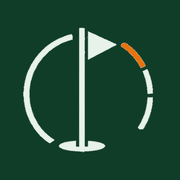
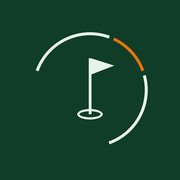
Fix report fold density, evidence honesty, hub sync copy, and PWA mark.
Tighten the mobile opening fold so long-copy cue stays in-viewport, stop
cropping theater video and inventing a common-miss claim, clarify hub sync
detail when already linked or storefront URL is missing, and align the PWA /
apple-touch mark with the Tour Caddie v3 flagstick.

Changed region(s): [[0.1111, 0.1389, 0.8611, 0.8611]]

diff --git a/store-assets/make_apple_touch_icon.py b/store-assets/make_apple_touch_icon.py
@@ -1,11 +1,10 @@
 """apple-touch-icon.png — the iOS home-screen mark.
 
-Reproduces swinglab/web/static/pwa-icon.svg with Pillow: the night turf
-field, the cool-mist ball-face circle, one orange swing-arc gesture, and
-the ball dot. iOS ignores SVG touch icons and rounds the corners itself,
-so this renders the mark full-bleed on an OPAQUE 180x180 canvas (no alpha,
-no pre-rounded corners). Drawn at supersample scale and downscaled for
-clean edges, like the other generators here.
+Tour Caddie v3: deep-forest tile with the flagstick + precision-arc mark in
+mint and one amber kinetic segment. iOS ignores SVG touch icons and rounds
+the corners itself, so this renders the mark full-bleed on an OPAQUE 180x180
+canvas (no alpha, no pre-rounded corners). Drawn at supersample scale and
+downscaled for clean edges.
 
 Writes straight into the app's static directory:
     python store-assets/make_apple_touch_icon.py
@@ -13,6 +12,7 @@ Writes straight into the app's static directory:
 
 from __future__ import annotations
 
+import math
 from pathlib import Path
 
 from PIL import Image, ImageDraw
@@ -20,50 +20,59 @@ from PIL import Image, ImageDraw
 HERE = Path(__file__).parent
 STATIC = HERE.parent / "swinglab" / "web" / "static"
 
-# palette (from pwa-icon.svg / Turf Instrument)
-NIGHT = "#06110c"
-MIST = "#eef2ef"
+GREEN = "#0f3d28"
+MINT = "#e6f2ea"
 ORANGE = "#e8720c"
 
-SIZE = 180     # Apple's documented touch-icon size
-CANVAS = 512   # draw in the SVG's own 512-unit coordinate space
-S = 2          # supersample factor
+SIZE = 180
+S = 4
 
 
-def _cubic(p0, p1, p2, p3, steps=48):
-    """Sample one cubic bezier as a point list (endpoint excluded)."""
-    points = []
-    for i in range(steps):
-        t = i / steps
-        u = 1 - t
-        x = u**3 * p0[0] + 3 * u**2 * t * p1[0] + 3 * u * t**2 * p2[0] + t**3 * p3[0]
-        y = u**3 * p0[1] + 3 * u**2 * t * p1[1] + 3 * u * t**2 * p2[1] + t**3 * p3[1]
-        points.append((x, y))
-    return points
-
-
-def swing_arc() -> list[tuple[float, float]]:
-    """The SVG swoosh: M157 286c60-123 132-118 198-61-61-26-115-11-155 50z."""
-    top = _cubic((157, 286), (217, 163), (289, 168), (355, 225))
-    belly = _cubic((355, 225), (294, 199), (240, 214), (200, 275))
-    return top + belly + [(200, 275)]
+def _pol(cx: float, cy: float, r: float, ang: float) -> tuple[float, float]:
+    a = math.radians(ang)
+    return cx + r * math.cos(a), cy + r * math.sin(a)
 
 
 def main() -> None:
-    scale = CANVAS * S / 512
-    img = Image.new("RGB", (CANVAS * S, CANVAS * S), NIGHT)
-    draw = ImageDraw.Draw(img)
+    canvas = SIZE * S
+    img = Image.new("RGB", (canvas, canvas), GREEN)
+    d = ImageDraw.Draw(img)
+    cx = cy = canvas / 2
+    R = canvas * 0.32
+    stroke = max(2, int(0.055 * R))
 
-    def xy(x: float, y: float) -> tuple[float, float]:
-        return (x * scale, y * scale)
+    for start, end, fill in (
+        (200, 290, MINT),
+        (295, 340, ORANGE),
+        (345, 430, MINT),
+    ):
+        d.arc([cx - R, cy - R, cx + R, cy + R], start, end, fill=fill, width=stroke)
 
-    draw.ellipse([xy(256 - 150, 256 - 150), xy(256 + 150, 256 + 150)], fill=MIST)
-    draw.polygon([xy(x, y) for x, y in swing_arc()], fill=ORANGE)
-    draw.ellipse([xy(345 - 22, 192 - 22), xy(345 + 22, 192 + 22)], fill=NIGHT)
+    stick_w = max(2, int(0.05 * R))
+    top = cy - 0.55 * R
+    bottom = cy + 0.42 * R
+    d.line([(cx, top), (cx, bottom)], fill=MINT, width=stick_w)
+    flag_h = 0.28 * R
+    flag_w = 0.42 * R
+    d.polygon(
+        [
+            (cx + stick_w * 0.5, top),
+            (cx + flag_w, top + flag_h * 0.45),
+            (cx + stick_w * 0.5, top + flag_h),
+        ],
+        fill=MINT,
+    )
+    cup_rx, cup_ry = 0.22 * R, 0.09 * R
+    d.ellipse(
+        [cx - cup_rx, bottom - cup_ry, cx + cup_rx, bottom + cup_ry],
+        outline=MINT,
+        width=max(2, int(0.04 * R)),
+    )
 
-    out = STATIC / "apple-touch-icon.png"
-    img.resize((SIZE, SIZE), Image.LANCZOS).save(out, format="PNG")
-    print("wrote", out)
+    out = img.resize((SIZE, SIZE), Image.LANCZOS)
+    path = STATIC / "apple-touch-icon.png"
+    out.save(path, "PNG", optimize=True)
+    print("wrote", path)
 
 
 if __name__ == "__main__":
